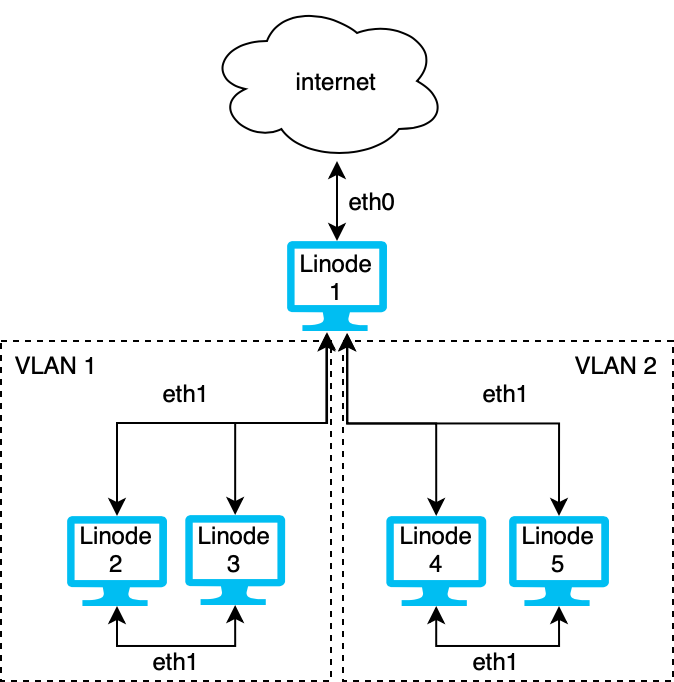
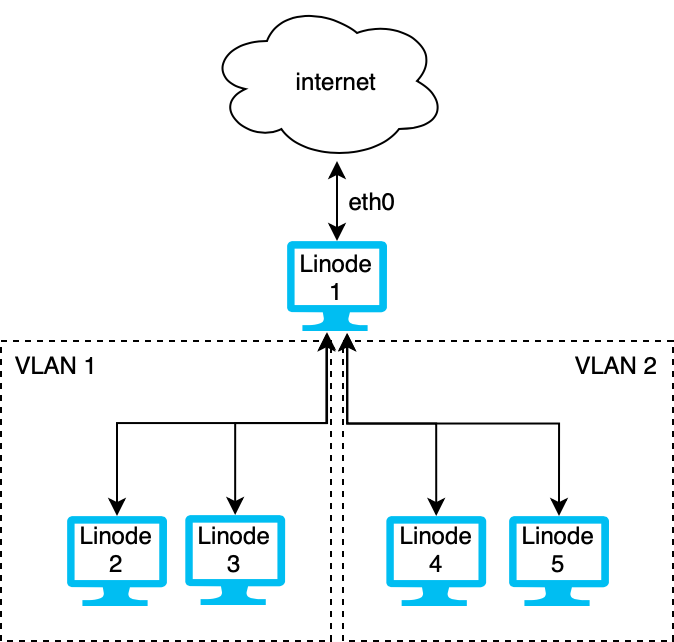
updated with comments from Anton

diff --git a/docs/networking/vlan/common-linode-vlan-use-cases/index.md b/docs/networking/vlan/common-linode-vlan-use-cases/index.md
@@ -2,8 +2,8 @@
 author:
   name: Linode Community
   email: docs@linode.com
-description: 'A VLAN is a private network. This means that devices on a VLAN can communicate only with each other and with devices which are on the physical network, but not with devices that are not part of the VLAN. This guide discusses common use cases for Linode VLAN.'
-og_description: 'A VLAN is a private network. This means that devices on a VLAN can communicate only with each other and with devices which are on the physical network, but not with devices that are not part of the VLAN. This guide discusses common use cases for Linode VLAN.'
+description: 'Virtual Local Area Network (VLAN) is a private Layer 2 network. This means that two or more Linodes connected via the VLAN can see each other as if they were directly connected to the same physical Ethernet network.'
+og_description: 'Virtual Local Area Network (VLAN) is a private Layer 2 network. This means that two or more Linodes connected via the VLAN can see each other as if they were directly connected to the same physical Ethernet network. This guide explains some common use cases for using Linode''s VLAN.'
 image:
 keywords: ['vlan','virtual local area network','use case']
 license: '[CC BY-ND 4.0](https://creativecommons.org/licenses/by-nd/4.0)'
@@ -18,13 +18,11 @@ contributor:
 
 ## What is VLAN?
 
-Virtual Local Area Network (VLAN) is a network construct that makes it possible to group large networks logically, based on function, team, or application, and allows multiple workloads to coexist on the same physical device. When you create a virtual network from an existing physical network, it’s called a VLAN.
-
-A VLAN is a private network. This means that devices on a VLAN can communicate only with each other and with devices which are on the physical network, but not with devices that are not part of the VLAN. In other words, broadcast, and multicast, packets sent from one entity in a VLAN only reach other entities that are present in the same VLAN on the same network. This enables you to implement access and security policies to a particular group of users.
+Virtual Local Area Network (VLAN) is a private [Layer 2](https://en.wikipedia.org/wiki/OSI_model#Layer_2:_Data_Link_Layer) network. This means that two or more Linodes connected via the VLAN can see each other as if they were directly connected to the same physical Ethernet network. This network supports all the logical Ethernet features like L2 broadcast and L2 multicast. Devices outside the network cannot see any traffic within the private network.
 
 ### Benefits
 
-VLAN helps you manage the network by segmenting the network, confining the broadcast domains, reducing network traffic, and enforcing security policies.
+Linode's VLAN helps you create private LANs by creating a physical L2 network in the cloud where devices can communicate privately and securely.
 
 ## Use Cases
 
@@ -32,7 +30,7 @@ Some of the most popular use cases for VLAN are as follows.
 
 ### Secure Data and Traffic
 
-If you have sensitive data on your network, you can use a VLAN to help keep it secure. By isolating the devices in the network with privileged data, you decrease the possibility of confidential information breaches. For example, the devices in an organization can be segmented into VLANs such as management, sales, support, guests, and others. The devices in one VLAN cannot access the files in another VLAN.
+If you have sensitive data on your network, you can use a VLAN to help keep it secure. By isolating the devices in the network with privileged data, you decrease the possibility of confidential information breaches. For example, the devices in an organization can be segmented into VLANs such as management, sales, support, guests, and others. The devices in one VLAN cannot directly access devices on another VLAN.
 
 Likewise, the traffic in the VLAN is secure. All packets sent over the network in the VLAN are private and protected from access by anyone outside of the network.
 
@@ -50,21 +48,21 @@ In the diagram above, Linode 1 and 2 are both in a Kubernetes cluster. Both node
 
 ### Cost Effective Segmentation
 
-VLANs reduce the cost of the networking by efficiently using the existing resources and bandwidth. You can build multiple VLANS within an existing network instead of building multiple networks. Segmenting a network into smaller VLANs costs less than creating separate routed networks with routers. Similarly, you can run a secure VLAN in the cloud that is protected from the rest of the internet without generating extra outbound network transfer costs since internal VLAN traffic is internal and private.
+VLANs reduce the cost of the networking by efficiently using the existing resources and bandwidth. For example, you can run a secure VLAN in the cloud that is protected from the rest of the internet without generating extra outbound network transfer costs since internal VLAN traffic is internal and private.
 
 ![Multiple VLAN Configuration](multi-vlan-config.png "Multiple VLAN Configuration")
 
-In the diagram above, Linode 1 can communicate with both VLANs 1 and 2 over `eth1` interface connections as well as the internet over the `eth0` interface. The Linodes in VLAN 1 can communicate securely with each other. Likewise, the Linodes in VLAN 2 can communicate with each other. However, the Linodes in VLAN 1 and VLAN 2 cannot communicate with each other.
+In the diagram above, Linode 1 has three virtual Ethernet NICs, one to the internet and two others to separate VLANs. The Linodes in VLAN 1 can communicate securely with each other. Likewise, the Linodes in VLAN 2 can communicate with each other. However, the Linodes in VLAN 1 and VLAN 2 cannot communicate with each other.
 
 ### Network Management
 
-Grouping [Layer 2](https://en.wikipedia.org/wiki/OSI_model#Layer_2:_Data_Link_Layer) networks into multiple broadcast domains reduces unnecessary traffic on the network and increases network performance. Grouping users into virtual networks makes it easy to setup and enforce network policies at a group level.
+Traditional VLANs split L2 networks into multiple broadcast domains reduces unnecessary traffic on the network and increases network performance. Linode's VLAN works by creating a new physical L2 network to create a private network in the cloud.
 
 #### Example: Add a NodeBalancer
 
 ![NodeBalancer with VLAN Configuration](nodebalancer-vlan-config.png "NodeBalancer with VLAN Configuration")
 
-You can increase performance and stability by adding a [NodeBalancer](https://www.linode.com/products/nodebalancers/) while securing the communication between two dedicated servers. In the high availability system above, Linodes 1 and 2 both run the same web application. They both have a connection to the VLAN with the network interface `eth1` so they can communicate securely with each other. All communications made over `eth1` are private and secure. They are also connected to a NodeBalancer to manage the load over the `eth0` interface. The NodeBalancer directs traffic, maintains load balancing, and performs active health checks to make sure the system only directs traffic to healthy servers.
+You can increase performance and stability of your application by adding a [NodeBalancer](https://www.linode.com/products/nodebalancers/) while securing the communication between two dedicated servers. In the high availability system above, Linodes 1 and 2 both run the same web application. They both have a connection to the VLAN with the network interface `eth1` so they can communicate securely with each other and with Linode 3 which is a database. All communications made over `eth1` are private and secure. They are also connected to a NodeBalancer to manage the load over the `eth0` interface. The NodeBalancer directs traffic, maintains load balancing, and performs active health checks to make sure the system only directs traffic to healthy servers.
 
 ## Next Steps
 
